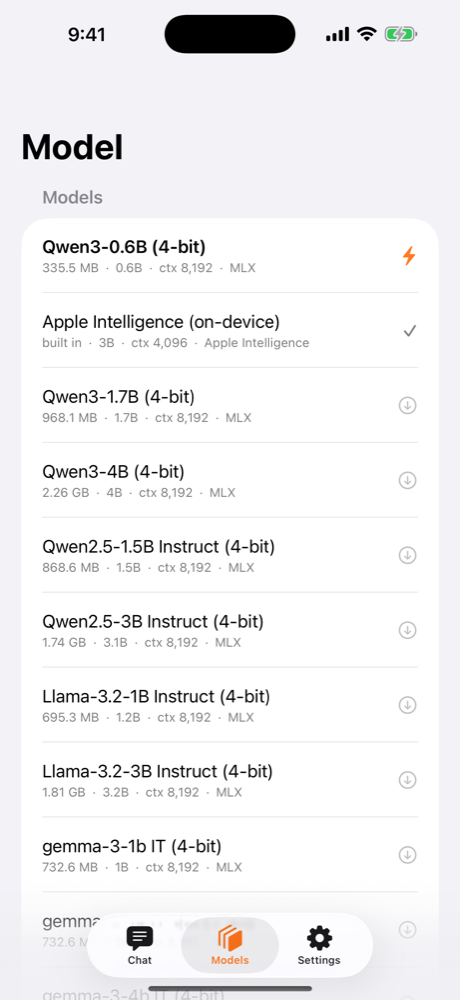
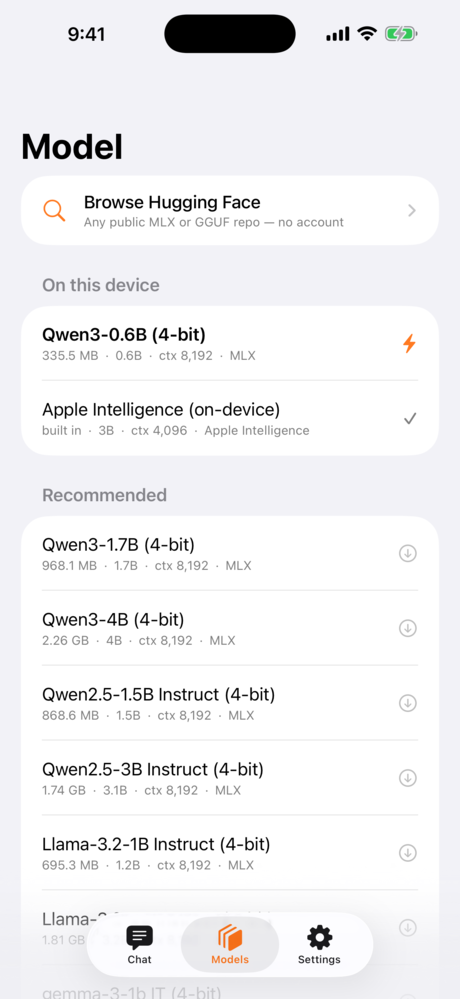
docs(app): Models shot + caption now show Browse Hugging Face (re-shot on main 47628b7)

diff --git a/docs/app/index.md b/docs/app/index.md
@@ -25,7 +25,7 @@ Free, no login, no analytics. First launch downloads `Qwen3-0.6B-4bit` (≈335 M
 </figure>
 <figure markdown>
 ![The model list](../assets/app/04-models.png){ loading=lazy }
-<figcaption>Models: tap to switch; Apple Intelligence built in on iOS 26.</figcaption>
+<figcaption>Models: Browse Hugging Face for any public MLX or GGUF repo; Apple Intelligence built in on iOS 26.</figcaption>
 </figure>
 <figure markdown>
 ![Offline mode](../assets/app/05-offline.png){ loading=lazy }
